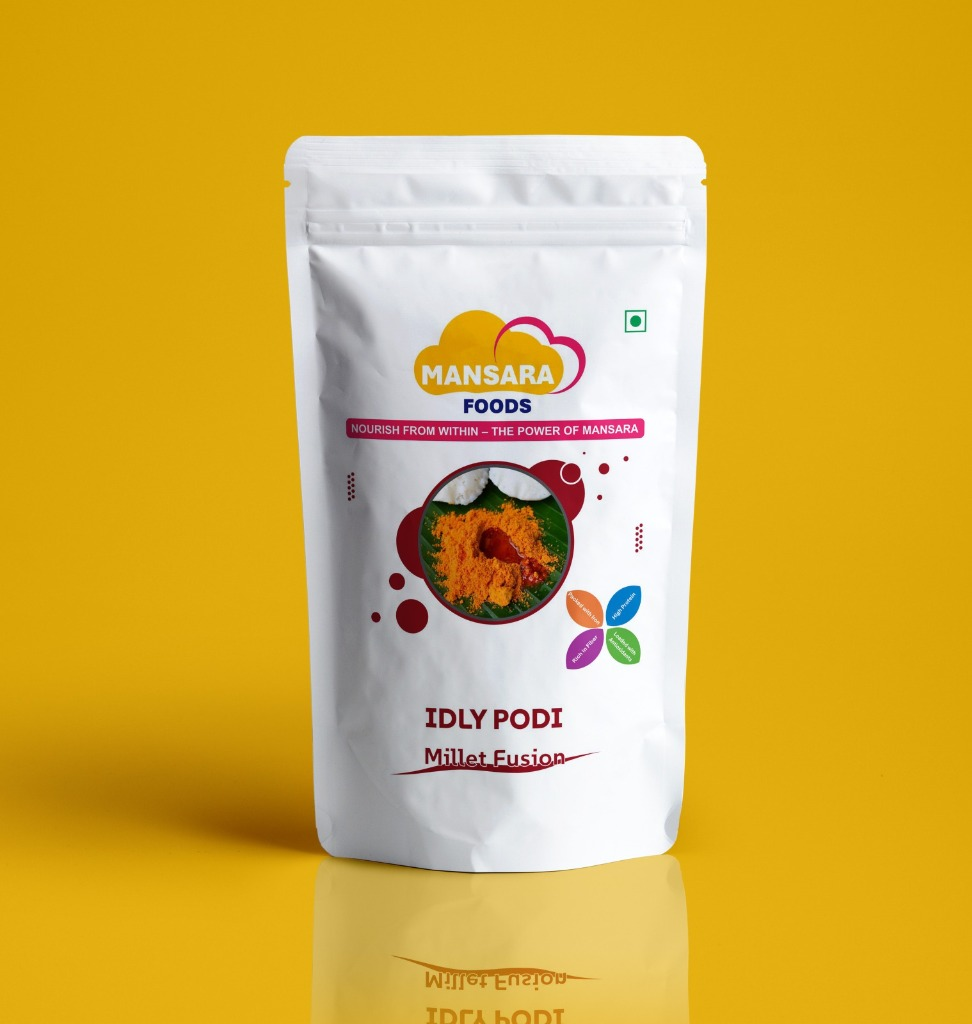
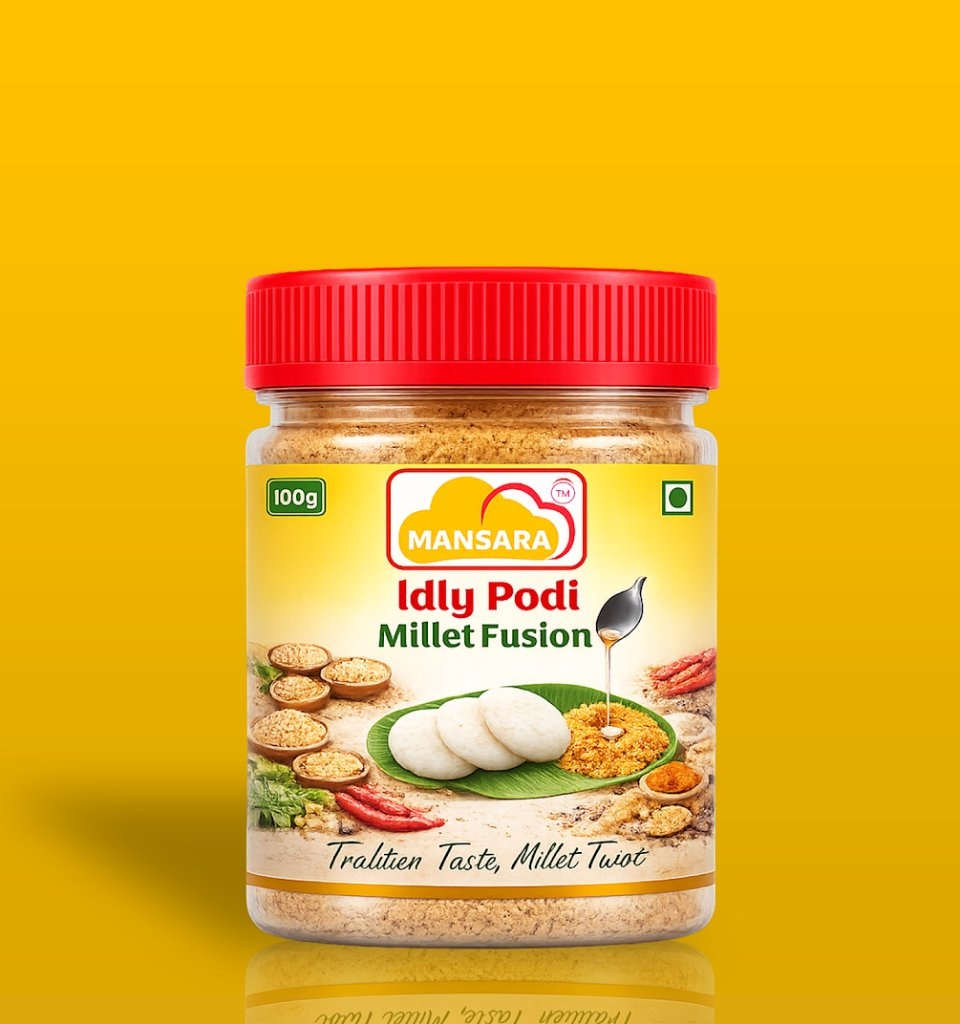
feat(products): update Idly Podi Millet Fusion with authentic 100g jar front and back images

diff --git a/src/data/fallbackProducts.ts b/src/data/fallbackProducts.ts
@@ -268,13 +268,10 @@ export const fallbackProducts: Product[] = [
     "price": 75,
     "offerPrice": 70,
     "originalPrice": 75,
-    "image": "/products/idly-podi-normal.jpg",
+    "image": "/products/millet-idly-podi-front.jpg",
     "images": [
-      "/products/idly-podi-normal.jpg",
-      "/products/idly-podi-wide.jpg",
-      "/products/idly-podi-top.jpg",
-      "/products/idly-podi-product.jpg",
-      "/products/idly-podi-back.jpg"
+      "/products/millet-idly-podi-front.jpg",
+      "/products/millet-idly-podi-back.jpg"
     ],
     "description": "A nutritious millet-enriched idly podi combining lentils, millets, and spices for a healthy traditional side dish. An authentic, no preservative idly podi online favorite from Chennai, prepared with traditional slow-roasted lentils, sesame seeds, red chillies, and digestive herbs. Perfect as a flavorful gunpowder podi home delivery side dish for idlis, dosas, and warm rice tossed in pure ghee or gingelly oil.",
     "ingredients": "Black Gram (கருப்பு உளுந்து), Bengal Gram (கடலைப்பருப்பு), Green Gram (பாசிப்பருப்பு), Fried Gram (வருத்தக்கடலை), Foxtail Millet (தினை), Little Millet (சாமை), Barnyard Millet (குதிரைவாலி), Kodo Millet (வரகு), Dry Red Chilli (காய்ந்த மிளகாய்), Kashmiri Chilli (காஷ்மீரி மிளகாய்), Toor Dal (துவரம் பருப்பு), Salt (உப்பு), Black Pepper (மிளகு), Asafoetida (பெருங்காயம்)",

diff --git a/src/data/products.ts b/src/data/products.ts
@@ -608,13 +608,10 @@ export const products: Product[] = [
     "price": 75,
     "offerPrice": 70,
     "originalPrice": 75,
-    "image": "/products/idly-podi-normal.jpg",
+    "image": "/products/millet-idly-podi-front.jpg",
     "images": [
-      "/products/idly-podi-normal.jpg",
-      "/products/idly-podi-wide.jpg",
-      "/products/idly-podi-top.jpg",
-      "/products/idly-podi-product.jpg",
-      "/products/idly-podi-back.jpg"
+      "/products/millet-idly-podi-front.jpg",
+      "/products/millet-idly-podi-back.jpg"
     ],
     "description": "A nutritious millet-enriched idly podi combining lentils, millets, and spices for a healthy traditional side dish.",
     "ingredients": "Black Gram (கருப்பு உளுந்து), Bengal Gram (கடலைப்பருப்பு), Green Gram (பாசிப்பருப்பு), Fried Gram (வருத்தக்கடலை), Foxtail Millet (தினை), Little Millet (சாமை), Barnyard Millet (குதிரைவாலி), Kodo Millet (வரகு), Dry Red Chilli (காய்ந்த மிளகாய்), Kashmiri Chilli (காஷ்மீரி மிளகாய்), Toor Dal (துவரம் பருப்பு), Salt (உப்பு), Black Pepper (மிளகு), Asafoetida (பெருங்காயம்)",

diff --git a/src/data/blogPosts.ts b/src/data/blogPosts.ts
@@ -171,7 +171,7 @@ export const blogPosts: BlogPost[] = [
     relatedProducts: [
       { name: "Urad Health Mix – Millet Magic", slug: "urad-porridge-mix-millet-magic", image: "/products/urad-millet-magic-250g-front.jpg", price: 165 },
       { name: "Health Mix – Black Rice Delight", slug: "black-rice-delight-porridge-mix", image: "/products/black-rice-delight-250g-front.jpg", price: 180 },
-      { name: "Millet Fusion Idly Podi", slug: "millet-fusion-idly-podi", image: "/products/idly-podi-normal.jpg", price: 75 }
+      { name: "Millet Fusion Idly Podi", slug: "millet-fusion-idly-podi", image: "/products/millet-idly-podi-front.jpg", price: 75 }
     ]
   },
   {
@@ -223,7 +223,7 @@ export const blogPosts: BlogPost[] = [
     relatedProducts: [
       { name: "Nutrimix Super Health Mix", slug: "nutrimix-super-health-mix", image: "/products/nutrimix-normal.jpg", price: 160 },
       { name: "Urad Health Mix – Classic", slug: "urad-porridge-mix-classic", image: "/products/urad-classic-250g-front.jpg", price: 165 },
-      { name: "Millet Fusion Idly Podi", slug: "millet-fusion-idly-podi", image: "/products/idly-podi-normal.jpg", price: 75 }
+      { name: "Millet Fusion Idly Podi", slug: "millet-fusion-idly-podi", image: "/products/millet-idly-podi-front.jpg", price: 75 }
     ]
   }
 ];
